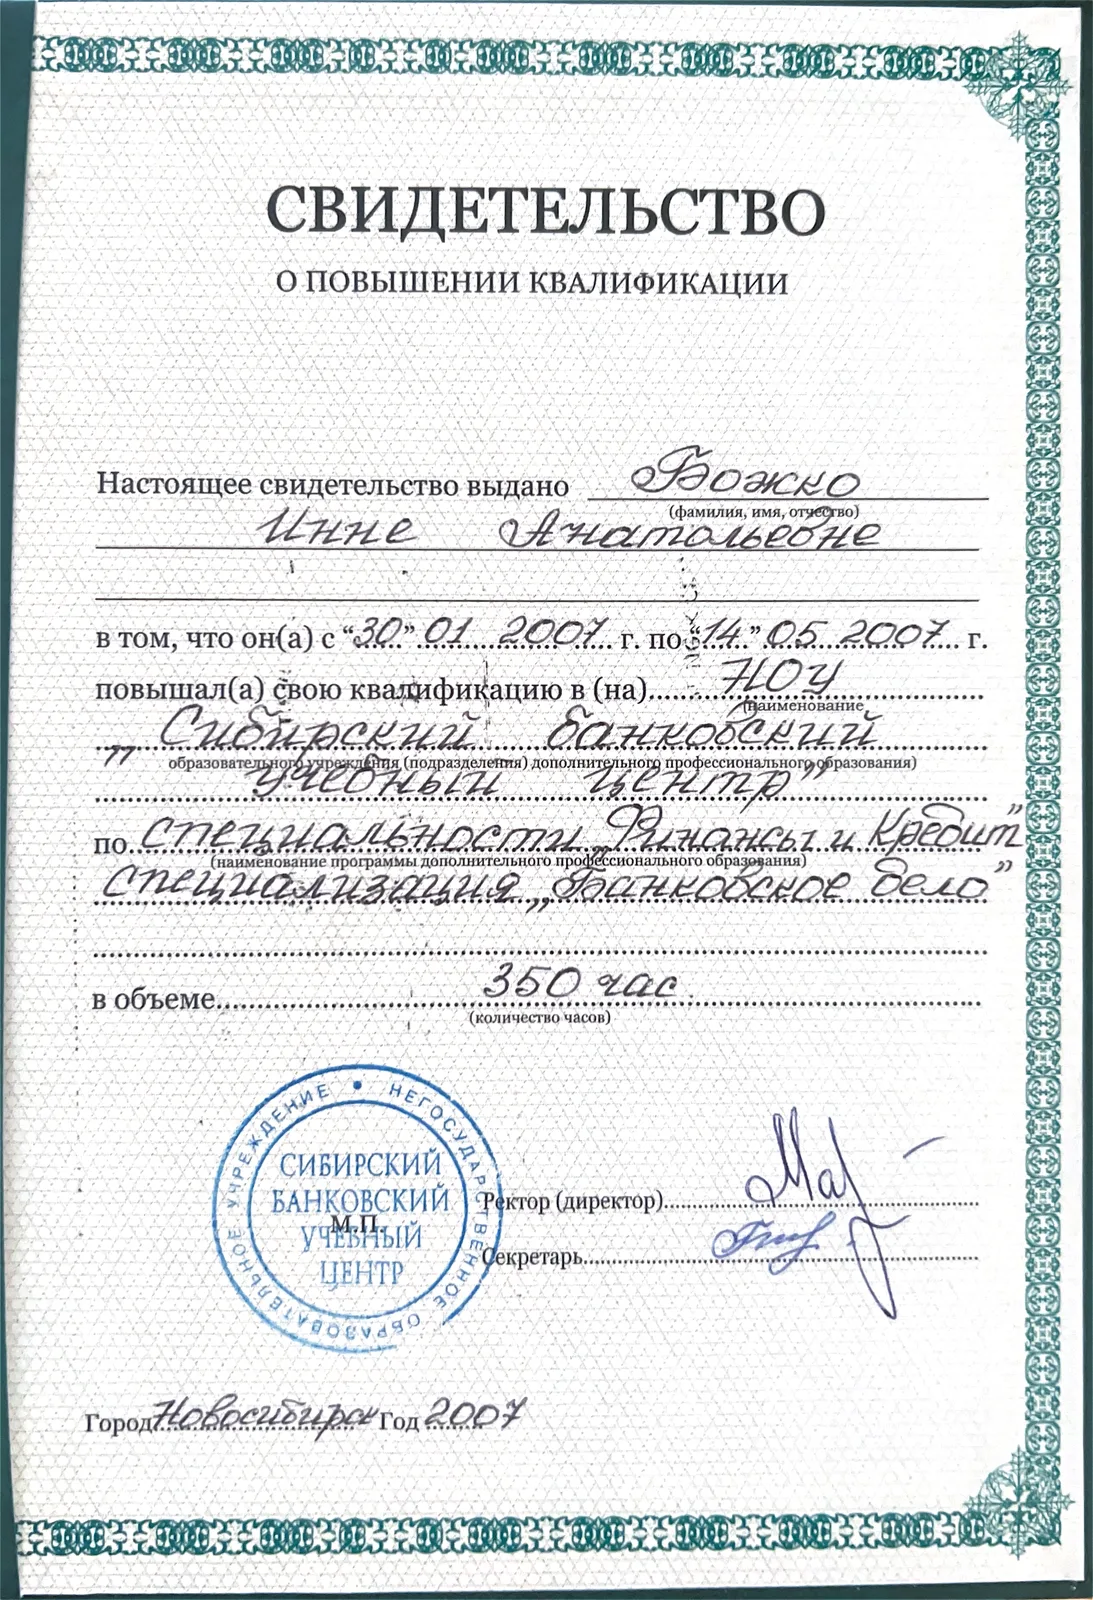
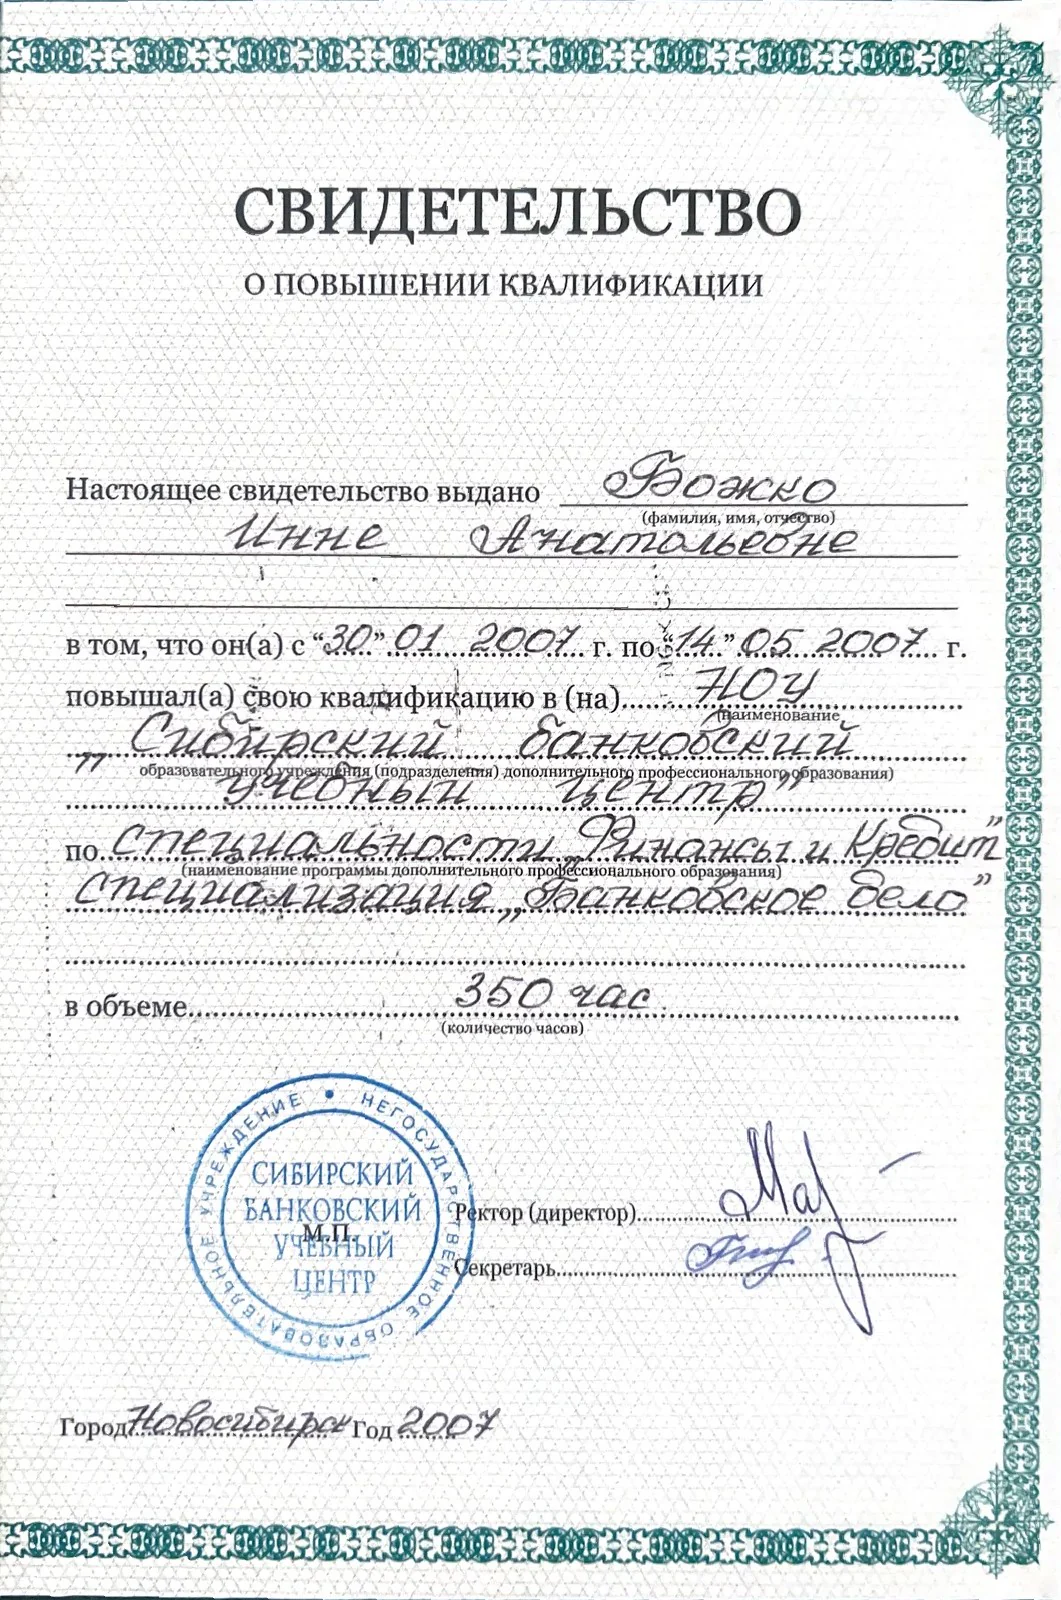
Replace diploma and certificate photos with corrected scans
Swap the three credential WebP files for the updated photos from images/new/, keeping the same filenames used in the gallery. Update intrinsic width/height on the credential images and drop the staging JPGs.

diff --git a/index.html b/index.html
@@ -509,7 +509,7 @@
                 class="credential__img"
                 src="./images/diploma-lawyer-1998.webp"
                 alt="Диплом о высшем образовании: квалификация «юрист», Алтайский государственный университет, 1998"
-                width="1600"
+                width="1592"
                 height="1125"
                 loading="lazy"
                 decoding="async"
@@ -531,7 +531,7 @@
                 class="credential__img"
                 src="./images/diploma-economist-2004.webp"
                 alt="Диплом о высшем образовании: квалификация «экономист», специальность «финансы и кредит», 2004"
-                width="1600"
+                width="1501"
                 height="1146"
                 loading="lazy"
                 decoding="async"
@@ -553,8 +553,8 @@
                 class="credential__img credential__img--portrait"
                 src="./images/certificate-banking-2007.webp"
                 alt="Свидетельство о повышении квалификации: банковское дело, Сибирский банковский учебный центр, 2007"
-                width="600"
-                height="800"
+                width="1061"
+                height="1600"
                 loading="lazy"
                 decoding="async"
               />
